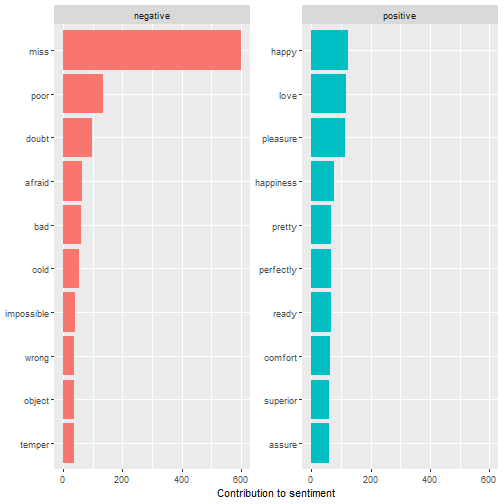
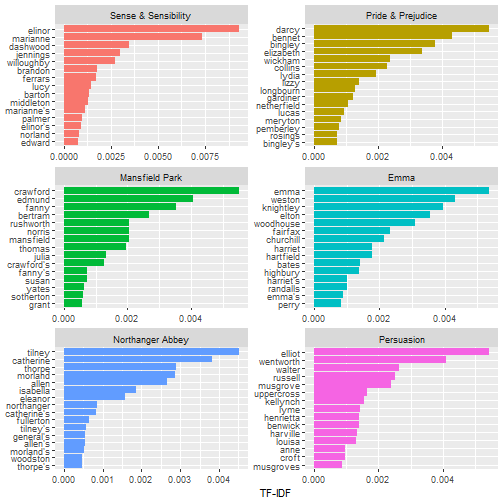
004_2

diff --git a/practices/004_tf_and_idf.md b/practices/004_tf_and_idf.md
@@ -1,17 +1,27 @@
 # Term Frequency and Inverse Document Frequency
 ## Term Frequency
-### Measures how frequently a word appears in a document
-### Removing stop words is necessary
-### If the word "the" appears 10 times in a document containing 100 words: TF = 10/100 = 0.1
-### If the word "the" appears 90 times in a document containing 100 words: TF = 90/100 = 0.9
+
+
+``` r
+# Measures how frequently a word appears in a document
+# Removing stop words is necessary
+# If the word "the" appears 10 times in a document containing 100 words: TF = 10/100 = 0.1
+# If the word "the" appears 90 times in a document containing 100 words: TF = 90/100 = 0.9
+```
+
 ## Inverse Document Frequency
-### Assigns lower weights to common words
-### Assigns higher weights to rare words
-### Rare words are generally more informative
-### Calculated based on the number of documents containing a given word
-### Numerator: Total number of documents
-### If the word "the" appears in all 6 documents: IDF = log(6/6) = 0
-### If the word "Darcy" appears in only 1 out of 6 documents: IDF = log(6/1) = 1.8
+
+
+``` r
+# Assigns lower weights to common words
+# Assigns higher weights to rare words
+# Rare words are generally more informative
+# Calculated based on the number of documents containing a given word
+# Numerator: Total number of documents
+# If the word "the" appears in all 6 documents: IDF = log(6/6) = 0
+# If the word "Darcy" appears in only 1 out of 6 documents: IDF = log(6/1) = 1.8
+```
+
 ## TF-IDF = (Term Frequency) × (Inverse Document Frequency)
 ### If the word "the" appears 100 times in a document containing 10,000 words and appears in all 6 documents
 
@@ -37,11 +47,16 @@
 
 ### "Darcy" receives a higher TF-IDF score than "the"
 ## Zipf's Law
-### Word frequency is inversely proportional to rank
-### Frequency = 1 / Rank
-### Zipf's Law 1: Human language favors efficiency
-### Zipf's Law 2: People tend to reuse familiar words
-### Zipf's Law 3: Common words are more predictable
+
+
+``` r
+# Word frequency is inversely proportional to rank
+# Frequency = 1 / Rank
+# Zipf's Law 1: Human language favors efficiency
+# Zipf's Law 2: People tend to reuse familiar words
+# Zipf's Law 3: Common words are more predictable
+```
+
 ## Requirements
 
 
@@ -212,7 +227,7 @@ ggplot(book_words, aes(n / total, fill = book)) +
 ## Warning: Removed 6 rows containing missing values or values outside the scale range (`geom_bar()`).
 ```
 
-![plot of chunk unnamed-chunk-10](figure/unnamed-chunk-10-1.png)
+![plot of chunk unnamed-chunk-13](figure/unnamed-chunk-13-1.png)
 
 ### Line Chart: Visualizing Zipf's Law
 
@@ -225,7 +240,7 @@ freq_by_rank %>%
   scale_y_log10()
 ```
 
-![plot of chunk unnamed-chunk-11](figure/unnamed-chunk-11-1.png)
+![plot of chunk unnamed-chunk-14](figure/unnamed-chunk-14-1.png)
 
 ### Bar Chart: Top TF-IDF Scores
 
@@ -241,5 +256,5 @@ book_tf_idf %>%
   labs(x = "TF-IDF", y = NULL)
 ```
 
-![plot of chunk unnamed-chunk-12](figure/unnamed-chunk-12-1.png)
+![plot of chunk unnamed-chunk-15](figure/unnamed-chunk-15-1.png)
 